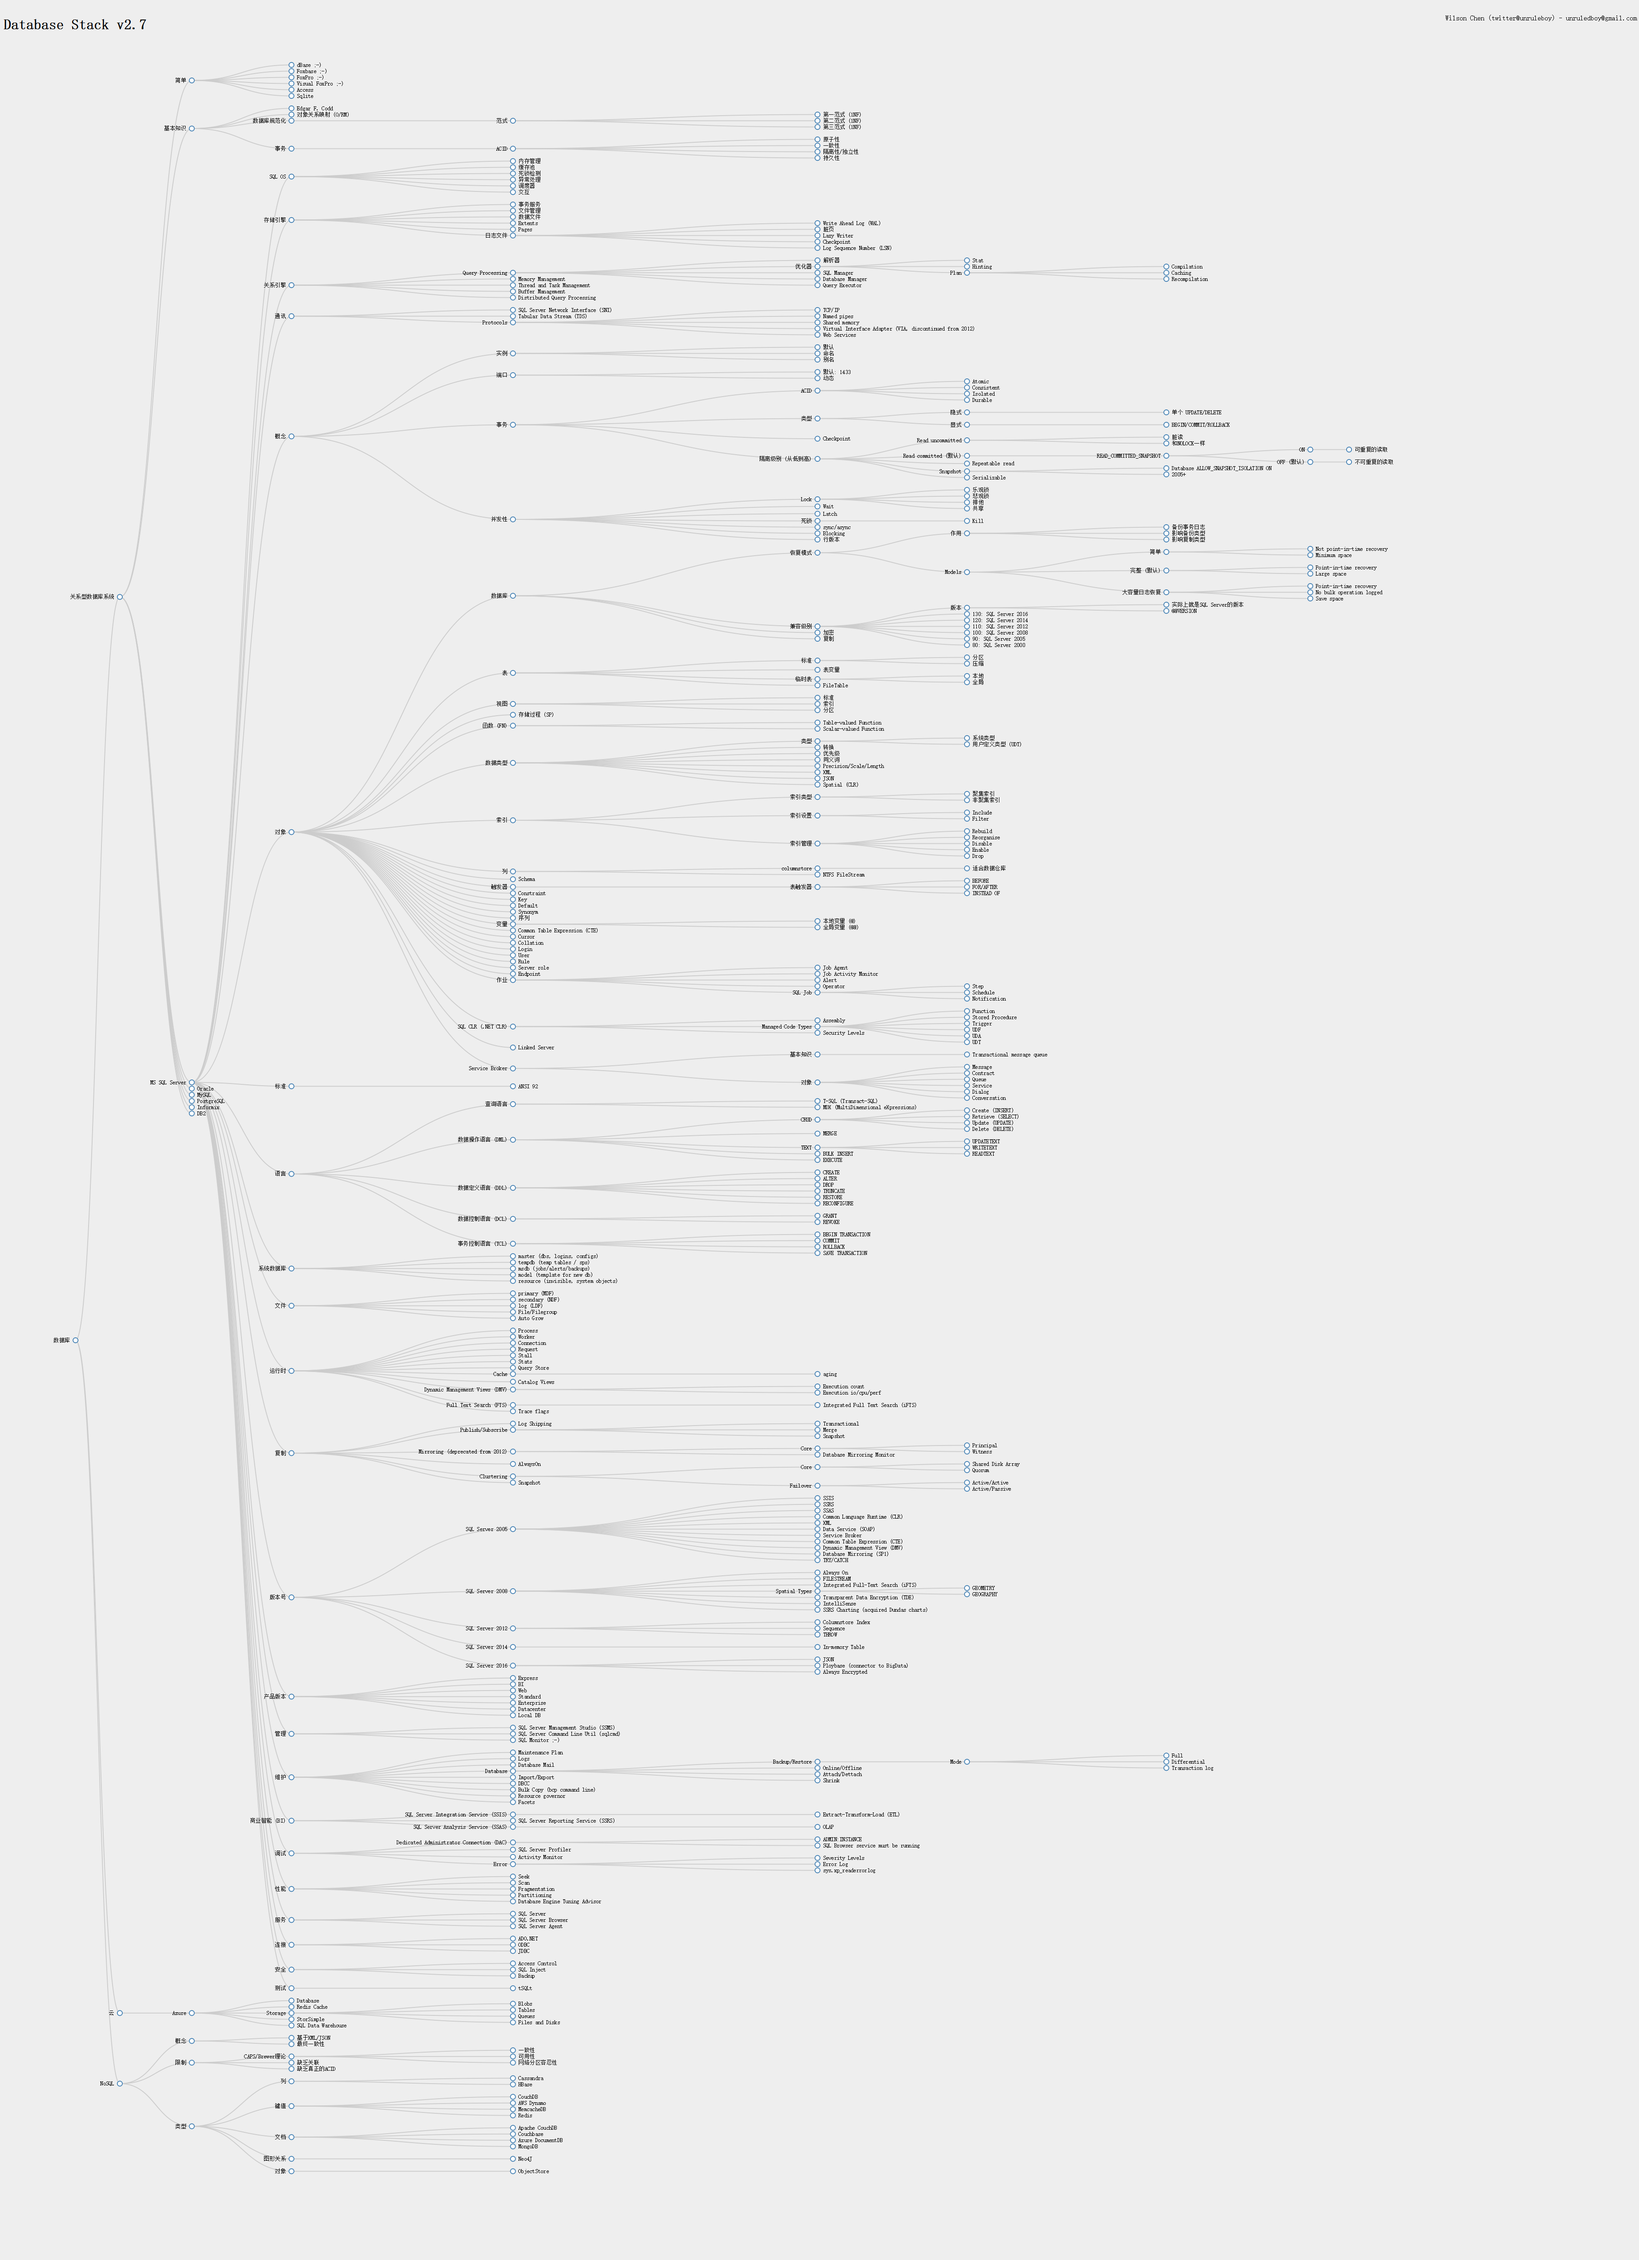
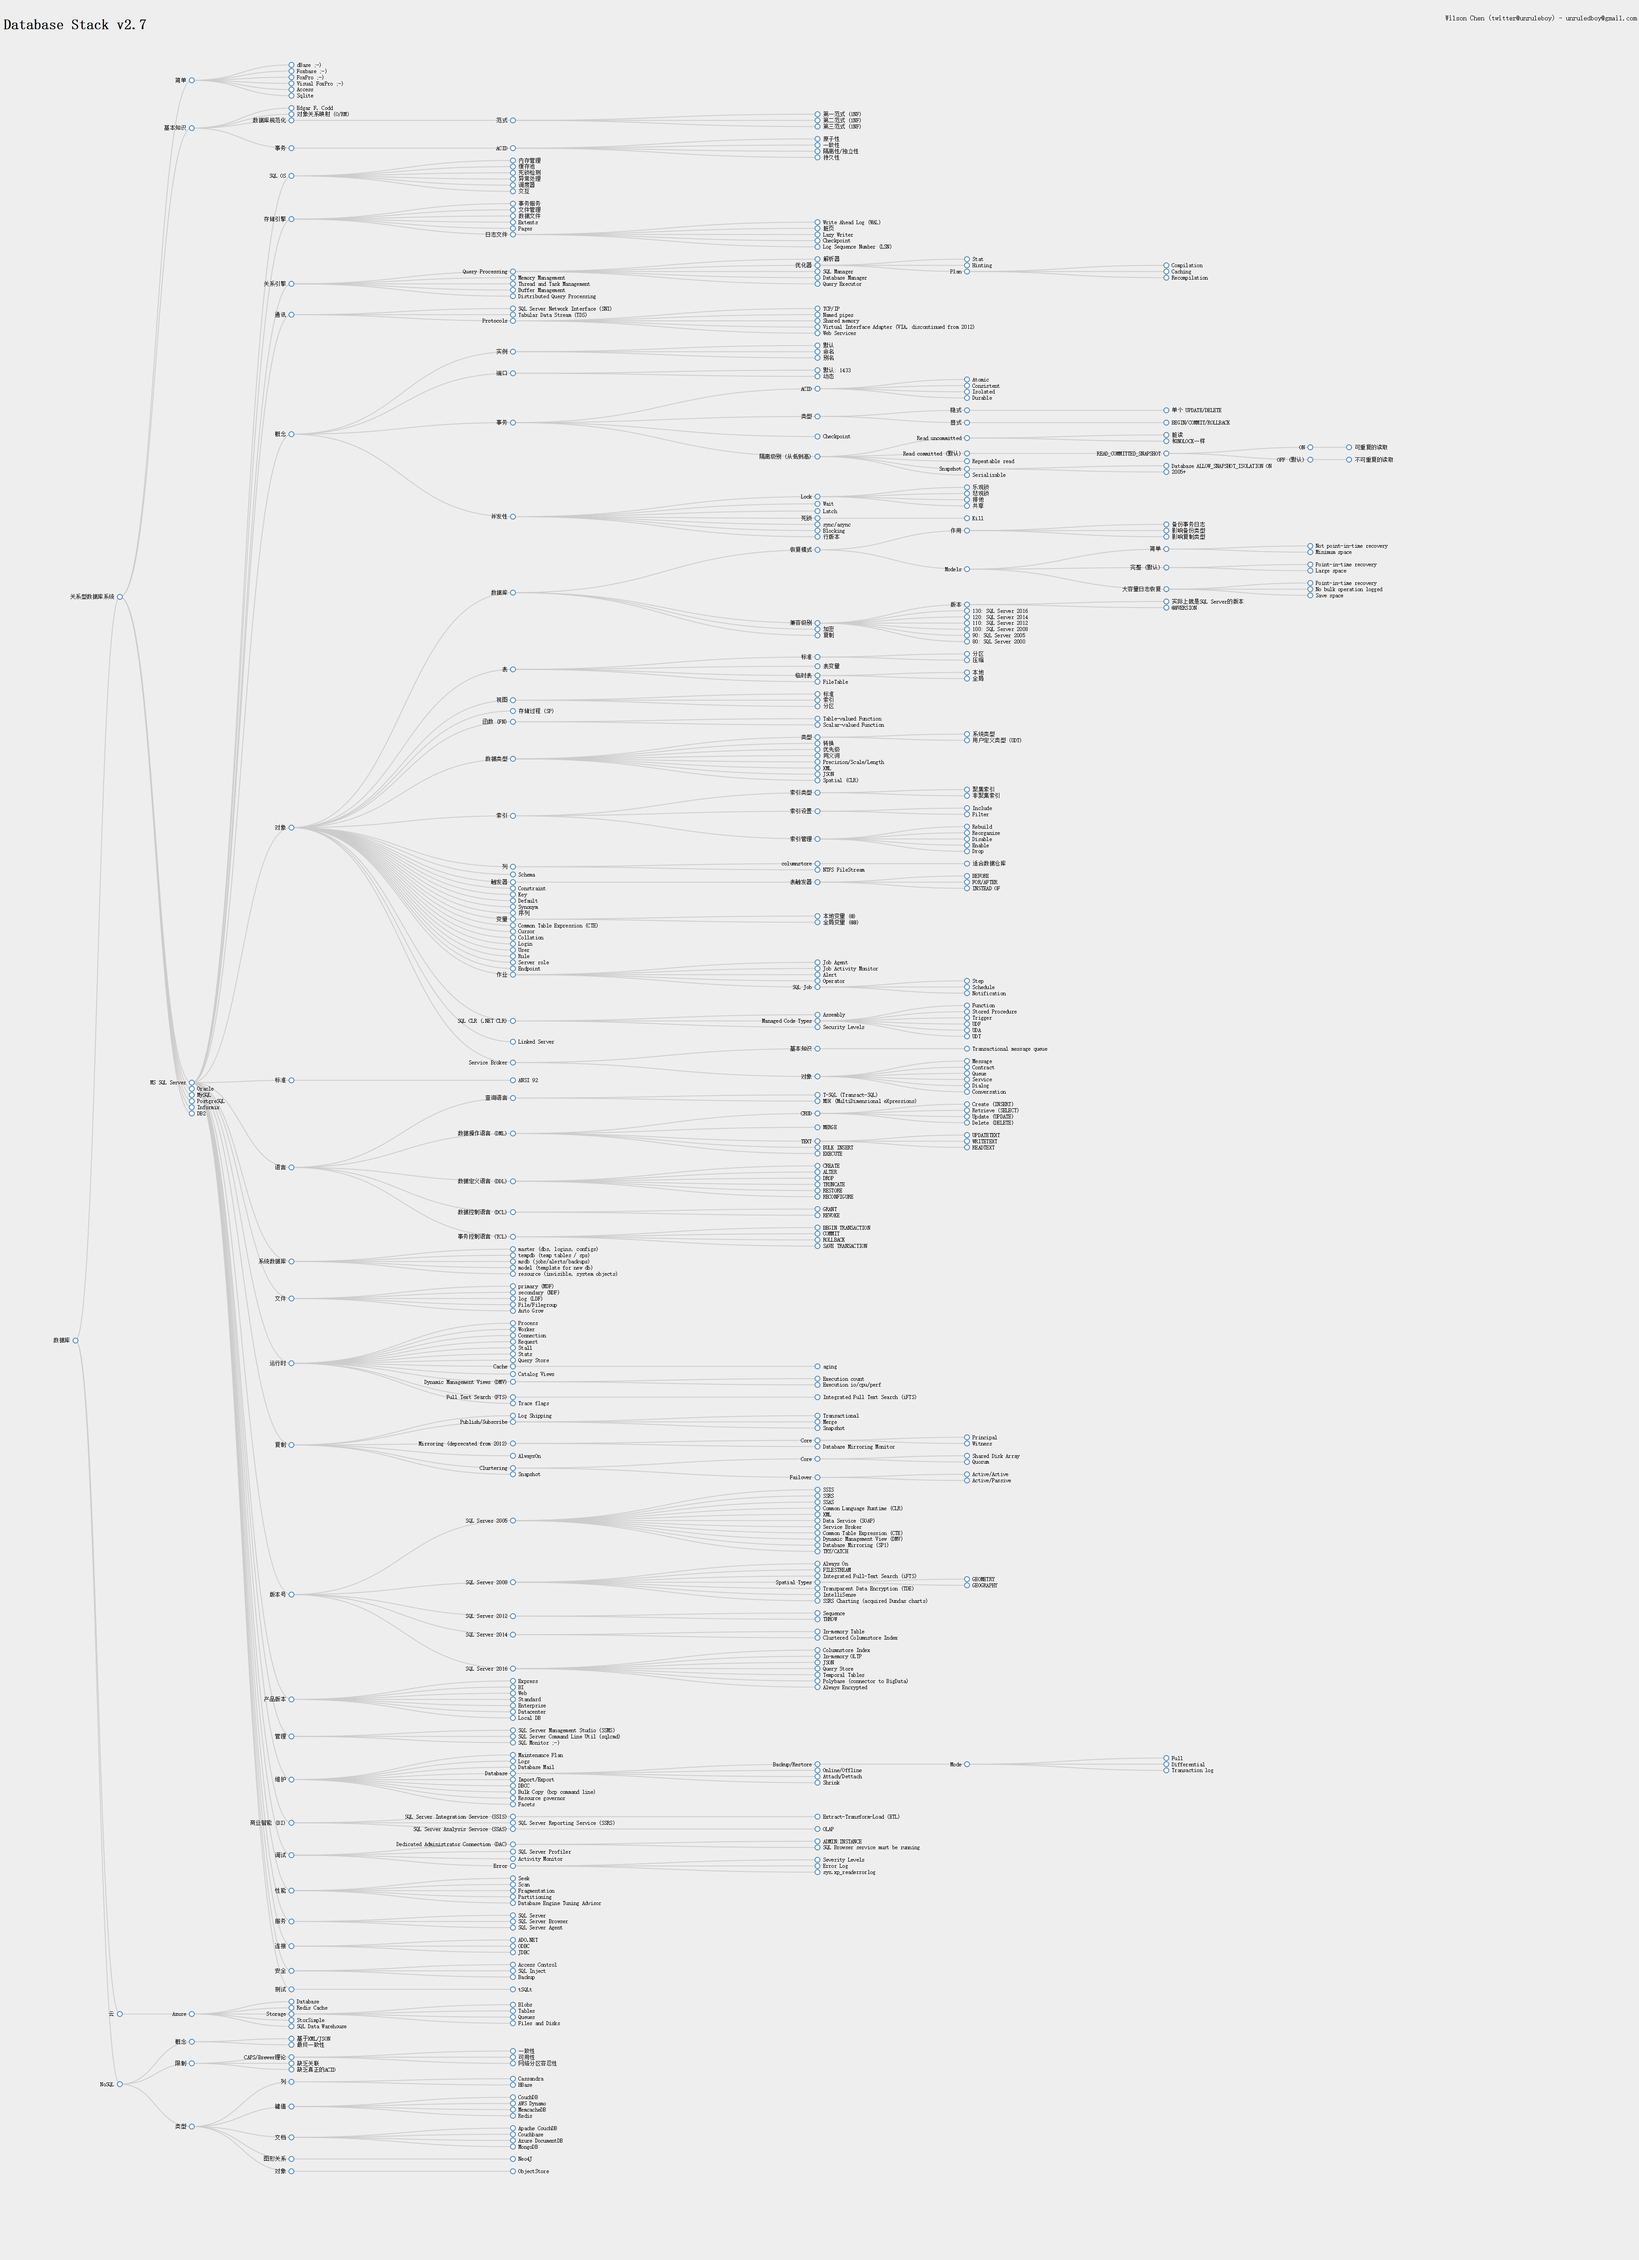
added 2016 new features

diff --git a/README.zh-cn.md b/README.zh-cn.md
@@ -391,14 +391,18 @@ https://rawgit.com/unruledboy/DatabaseStack/master/ux/DatabaseStack.htm?locale=z
 					- IntelliSense
 					- SSRS Charting (acquired Dundas charts)
 				- SQL Server 2012
-					- Columnstore Index
 					- Sequence
 					- THROW
 				- SQL Server 2014
 					- In-memory Table
+					- Clustered Columnstore Index
 				- SQL Server 2016
+					- Columnstore Index
+					- In-memory OLTP
 					- JSON
-					- Ploybase (connector to BigData)
+					- Query Store
+					- Temporal Tables
+					- Polybase (connector to BigData)
 					- Always Encrypted
 			- 产品版本
 				- Express

diff --git a/README.md b/README.md
@@ -388,14 +388,18 @@ https://rawgit.com/unruledboy/DatabaseStack/master/ux/DatabaseStack.htm
 					- IntelliSense
 					- SSRS Charting (acquired Dundas charts)
 				- SQL Server 2012
-					- Columnstore Index
 					- Sequence
 					- THROW
 				- SQL Server 2014
 					- In-memory Table
+					- Clustered Columnstore Index
 				- SQL Server 2016
+					- Columnstore Index
+					- In-memory OLTP
 					- JSON
-					- Ploybase (connector to BigData)
+					- Query Store
+					- Temporal Tables
+					- Polybase (connector to BigData)
 					- Always Encrypted
 			- Editions
 				- Express
